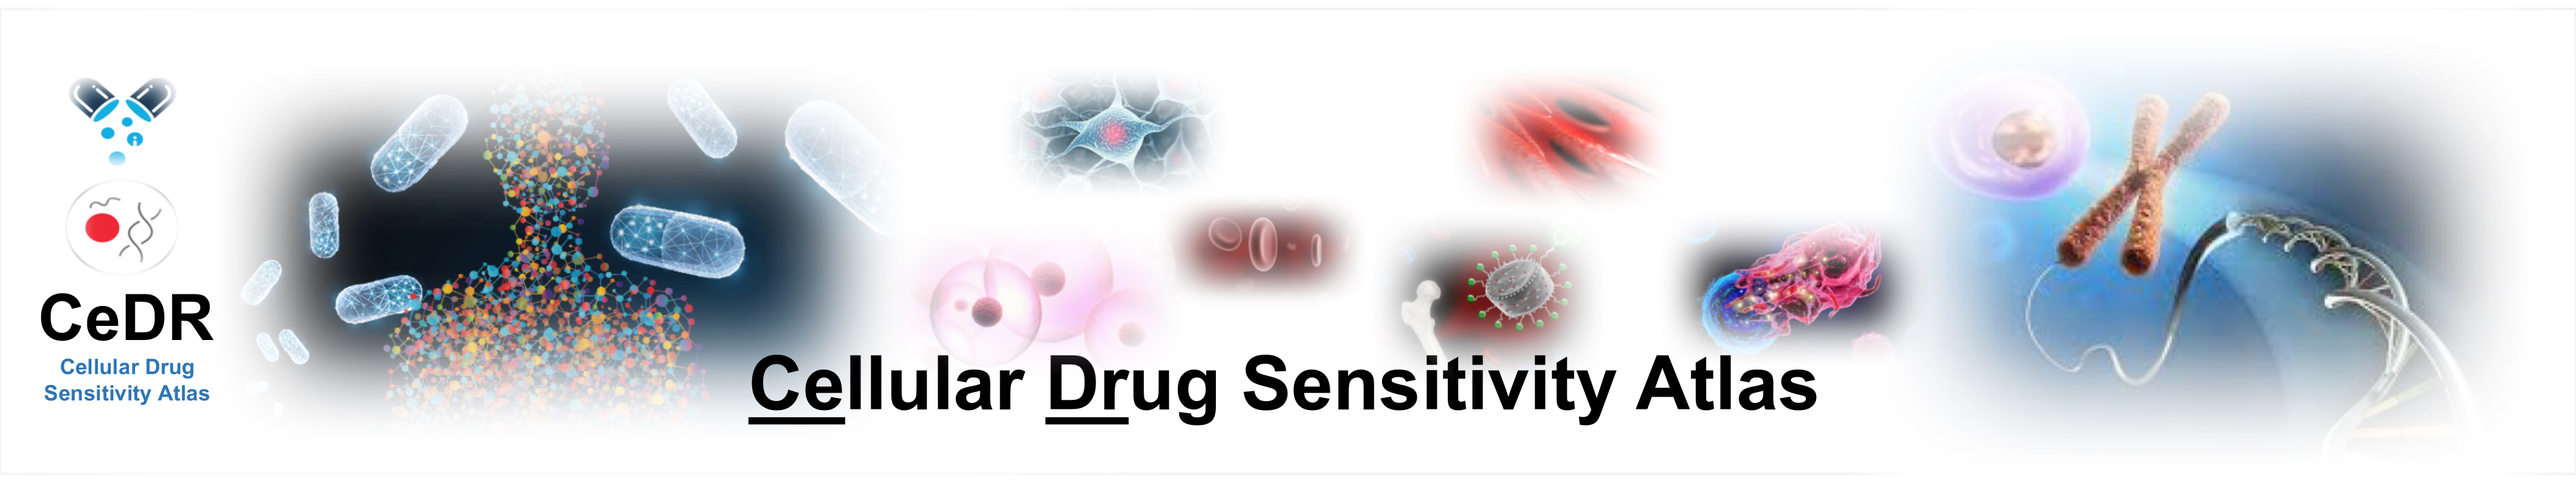
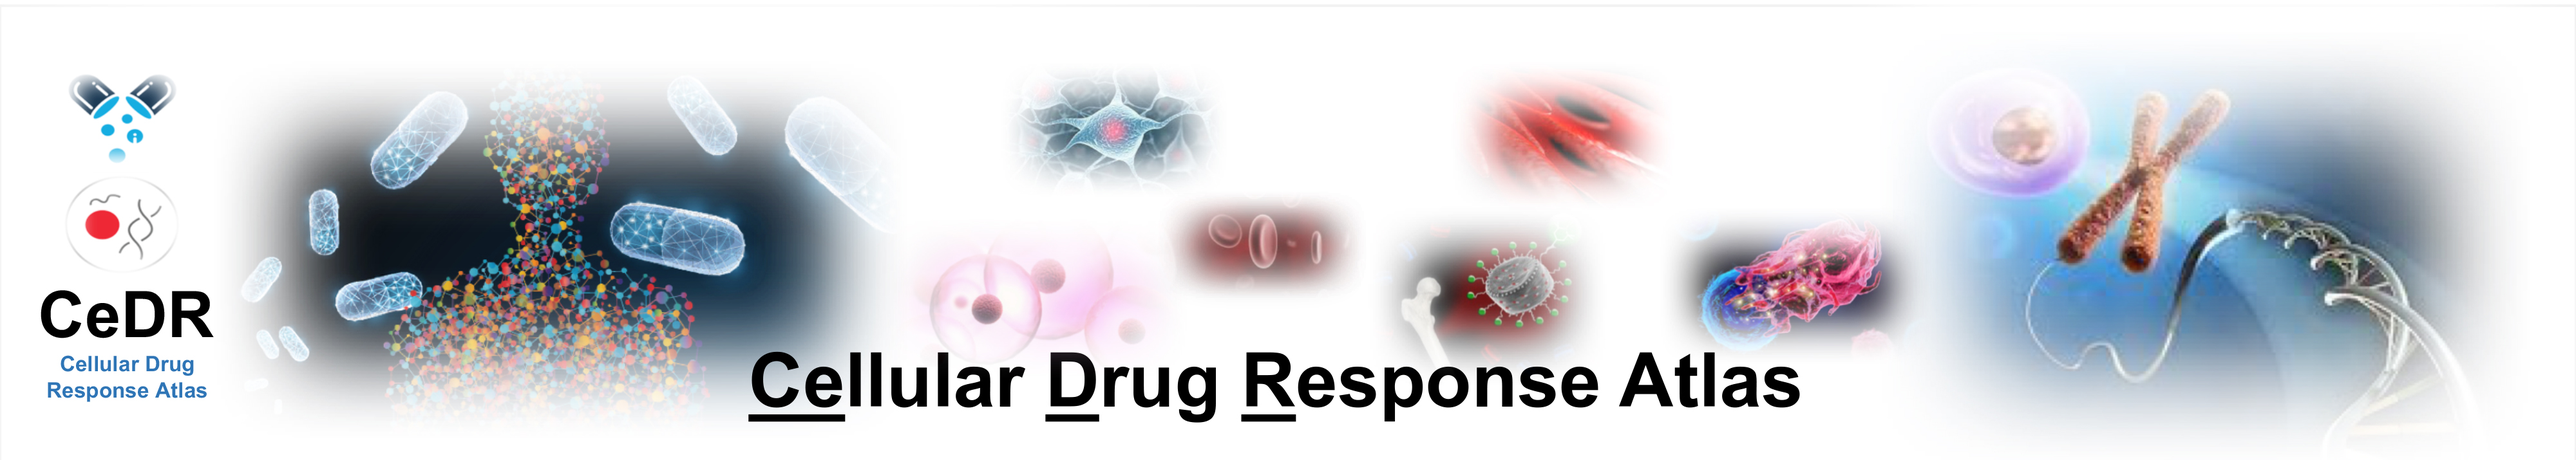
final 1

diff --git a/src/pages/index.tsx b/src/pages/index.tsx
@@ -518,16 +518,16 @@ export default function IndexPage() {
       </p>
     </div>
   );
-  const chBreast = (
+  const chThyroid = (
     <div>
       <p>
-        <a href={'/cedr/general/source/Human/tissue/Breast/phenotype/TNBC'}>
-          TNBC
+        <a href={'/cedr/general/source/Human/tissue/Thyroid/phenotype/Normal'}>
+          Normal
         </a>
       </p>
       <p>
-        <a href={'/cedr/general/source/Human/tissue/Breast/phenotype/Normal'}>
-          Normal
+        <a href={'/cedr/general/source/Human/tissue/Thyroid/phenotype/THCA'}>
+          THCA
         </a>
       </p>
     </div>
@@ -664,10 +664,16 @@ export default function IndexPage() {
       </p>
     </div>
   );
-  const chFat = (
+  const chSpleen = (
     <div>
       <p>
-        <a href={'/cedr/general/phenotype/Normal'}>Normal</a>
+        <a
+          href={
+            '/cedr/general/source/Human/tissue/Spleen/phenotype/Immunecells-Normal'
+          }
+        >
+          Normal Immunecells
+        </a>
       </p>
     </div>
   );
@@ -1468,7 +1474,7 @@ export default function IndexPage() {
       <Row justify="center" style={{ background: '#f0f2f5' }}>
         <div>
           <Title level={2} className={styles.introduction}>
-            CeDR Atlas: a knowledgebase of cellular drug sensitivity
+            CeDR Atlas: a knowledgebase of cellular drug response
           </Title>
         </div>
       </Row>
@@ -1685,10 +1691,14 @@ export default function IndexPage() {
                 </Popover>
               </div>
               <div className={styles.smallintestine}>
-                <Popover content={chMuscle} title={'Muscle'} placement="right">
+                <Popover
+                  content={chThyroid}
+                  title={'Thyroid'}
+                  placement="right"
+                >
                   <img
-                    src={muscle}
-                    style={{ width: '25%', height: '70%', display: 'block' }}
+                    src={mthyroid}
+                    style={{ width: '50%', height: '70%', display: 'block' }}
                   />
                 </Popover>
               </div>
@@ -1729,10 +1739,10 @@ export default function IndexPage() {
                 </Popover>
               </div>
               <div className={styles.spleen}>
-                <Popover content={chFat} title={'Fat'} placement="left">
+                <Popover content={chSpleen} title={'Spleen'} placement="left">
                   <img
-                    src={madipose}
-                    style={{ width: '20%', height: '80%', display: 'block' }}
+                    src={spleen}
+                    style={{ width: '40%', height: '80%', display: 'block' }}
                   />
                 </Popover>
               </div>

diff --git a/src/pages/Downloads/index.tsx b/src/pages/Downloads/index.tsx
@@ -7,43 +7,43 @@ export default function Page() {
   const data = [
     {
       description: 'Human Associations',
-      download: 'humanAssociations.txt',
-      link: 'https://ngdc.cncb.ac.cn/cedr/file/humanAssociations.txt',
+      download: 'humanAssociations.csv',
+      link: 'https://ngdc.cncb.ac.cn/cedr/file/humanAssociations.csv',
       total: '53333',
       fileSize: '32.7M',
     },
     {
       description: 'Mouse Associations',
-      download: 'mouseAssociations.txt',
-      link: 'https://ngdc.cncb.ac.cn/cedr/file/mouseAssociations.txt',
+      download: 'mouseAssociations.csv',
+      link: 'https://ngdc.cncb.ac.cn/cedr/file/mouseAssociations.csv',
       total: '26248',
       fileSize: '15.1M',
     },
     {
       description: 'CCLE Associations',
-      download: 'ccleAssociations.txt',
-      link: 'https://ngdc.cncb.ac.cn/cedr/file/ccleAssociations.txt',
+      download: 'ccleAssociations.csv',
+      link: 'https://ngdc.cncb.ac.cn/cedr/file/ccleAssociations.csv',
       total: '10299',
       fileSize: '6.6M',
     },
     {
       description: 'HCL Associations',
-      download: 'hclAssociations.txt',
-      link: 'https://ngdc.cncb.ac.cn/cedr/file/hclAssociations.txt',
+      download: 'hclAssociations.csv',
+      link: 'https://ngdc.cncb.ac.cn/cedr/file/hclAssociations.csv',
       total: '33546',
       fileSize: '20.7M',
     },
     {
       description: 'MCA Associations',
-      download: 'mcaAssociations.txt',
-      link: 'https://ngdc.cncb.ac.cn/cedr/file/mcaAssociations.txt',
+      download: 'mcaAssociations.csv',
+      link: 'https://ngdc.cncb.ac.cn/cedr/file/mcaAssociations.csv',
       total: '16412',
       fileSize: '9.8M',
     },
     {
       description: 'GEN Associations',
-      download: 'genAssociations.txt',
-      link: 'https://ngdc.cncb.ac.cn/cedr/file/genAssociations.txt',
+      download: 'genAssociations.csv',
+      link: 'https://ngdc.cncb.ac.cn/cedr/file/genAssociations.csv',
       total: '101278',
       fileSize: '63.2M',
     },
@@ -80,7 +80,9 @@ export default function Page() {
       dataIndex: 'download',
       render: (text, record) => (
         <Space size="middle">
-          <a href={record.link}>{record.download}</a>
+          <a href={record.link} download={record.download}>
+            {record.download}
+          </a>
         </Space>
       ),
     },

diff --git a/src/pages/General/[index].tsx b/src/pages/General/[index].tsx
@@ -133,7 +133,7 @@ const GeneralListPage: FC<GeneralPageProps> = ({
       dataIndex: 'datasetid',
       // valueType: 'index',
       // key: 'index',
-      width: 120,
+      width: 140,
       search: false,
       render: (text: string, record: GeneralItem) => (
         <span>
@@ -164,7 +164,11 @@ const GeneralListPage: FC<GeneralPageProps> = ({
           <span>
             <a
               className={styles.link}
-              href={'https://www.doi.org/' + record.doi}
+              href={
+                record.source == 'GEN'
+                  ? record.doi
+                  : 'https://www.doi.org/' + record.doi
+              }
             >
               <Space>{record.project}</Space>
             </a>
@@ -176,7 +180,7 @@ const GeneralListPage: FC<GeneralPageProps> = ({
       title: 'Source',
       dataIndex: 'source',
       key: 'source',
-      width: 100,
+      width: 90,
       // valueType: 'text',
       hideInForm: true,
       ellipsis: true,

diff --git a/src/pages/Browse/[index].tsx b/src/pages/Browse/[index].tsx
@@ -246,7 +246,7 @@ const Index: FC<BrowsePageProps> = ({
     <div>
       <Row justify={'center'}>
         <Col style={{ textAlign: 'center' }}>
-          <Network network={network} height={'1000px'} width={1000} />
+          <Network network={network} height={'500px'} width={1000} />
           <strong>
             Point Color: <span style={{ color: 'red' }}>dataset:red</span>{' '}
             &nbsp; <span style={{ color: 'orange' }}>cell type: orange</span>

diff --git a/src/layouts/HeaderLab/index.jsx b/src/layouts/HeaderLab/index.jsx
@@ -5,7 +5,7 @@ import { Col, Divider, Row } from 'antd';
 import Header from '../../assets/header3.jpg';
 export default () => (
   <div>
-    <img src={Header} style={{ height: '310px', width: '100%' }} />
+    <img src={Header} style={{ height: '300px', width: '100%' }} />
     {/*<div className={styles.header}>*/}
     {/*  <div>*/}
     {/*    /!*<img src={img} className={styles.logo} />*!/*/}

diff --git a/src/pages/Browse/model.tsx b/src/pages/Browse/model.tsx
@@ -107,6 +107,9 @@ const BrowseModel: BrowseModelType = {
                   pageIndex: 0,
                   pageSize: 0,
                   drug: name,
+                  pcutoff: 0.01,
+                  pcutoff2: 0.01,
+                  spcutoff: 0.01,
                 },
               });
               break;

diff --git a/src/pages/Dataset/service.ts b/src/pages/Dataset/service.ts
@@ -111,6 +111,9 @@ export const getRemoteNetwork = async ({
       datasetid: datasetid,
       celltype: celltype,
       drug: drug,
+      pcutoff: 0.01,
+      pcutoff2: 0.01,
+      spcutoff: 0.01,
     },
   })
     .then(function (response) {
